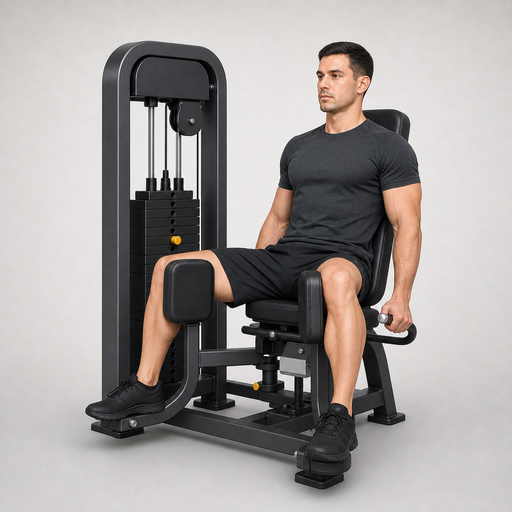
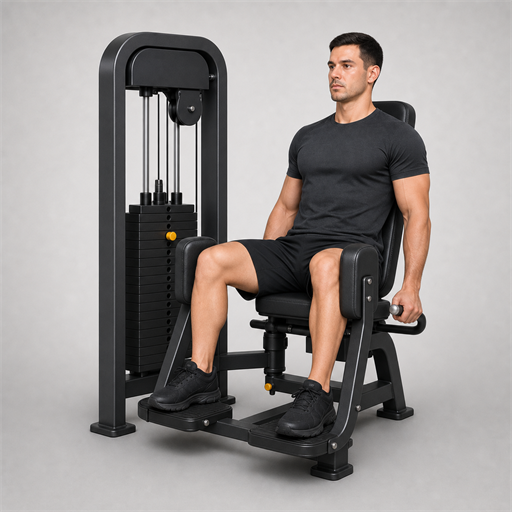
Replace hip abduction machine image

Changed region(s): [[0.1562, 0.0625, 0.8438, 0.9688]]

diff --git a/PROJECT_STATUS.md b/PROJECT_STATUS.md
@@ -28,6 +28,16 @@ User-facing app text is centralized in `src/strings.ts`.
 
 ## Last Completed Step
 
+Replaced the hip abduction machine image.
+
+Details:
+
+- Replaced `assets/machines/hip-abduction.png` with the approved corrected image.
+- The person now sits with both legs inside the machine and the resistance pads only outside the thighs.
+- Resized the generated source image to the existing 512x512 PNG asset format.
+
+Previous step:
+
 Added people to all standard machine images.
 
 Details: